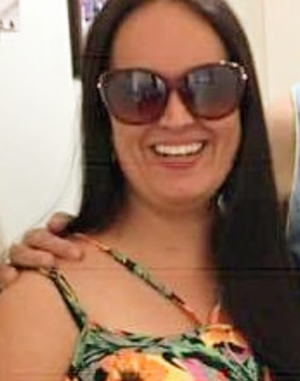
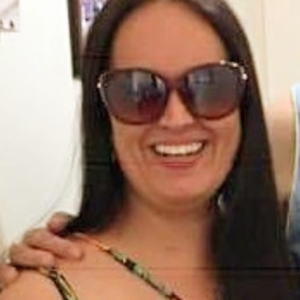
atualizaçao do tamanho da foto lucimara e inclusão de foto jefferson

diff --git a/sobre.html b/sobre.html
@@ -38,7 +38,7 @@
 
                 <h3 id="nomes">Jefferson Soares</h3>
                 <b></b>
-                <img id = "fotos" src="img/fotos/aa.png"/>
+                <img id = "fotos" src="img/fotos/jefferson.png"/>
                 <p id="texto">Proin consectetur quam ut dolor elementum aliquam. 
                     Donec efficitur, libero et elementum feugiat, odio turpis ullamcorper est, 
                     a maximus sem justo eu est. Donec sit amet consequat augue. 

diff --git a/css/estilo.css b/css/estilo.css
@@ -148,7 +148,7 @@ h3#nomes{
     text-transform: uppercase;
     color: #000000;
     text-decoration: none;
-    padding-top: 100px;
+    padding-top: 50px;
     
 }
 a#linkedin{
